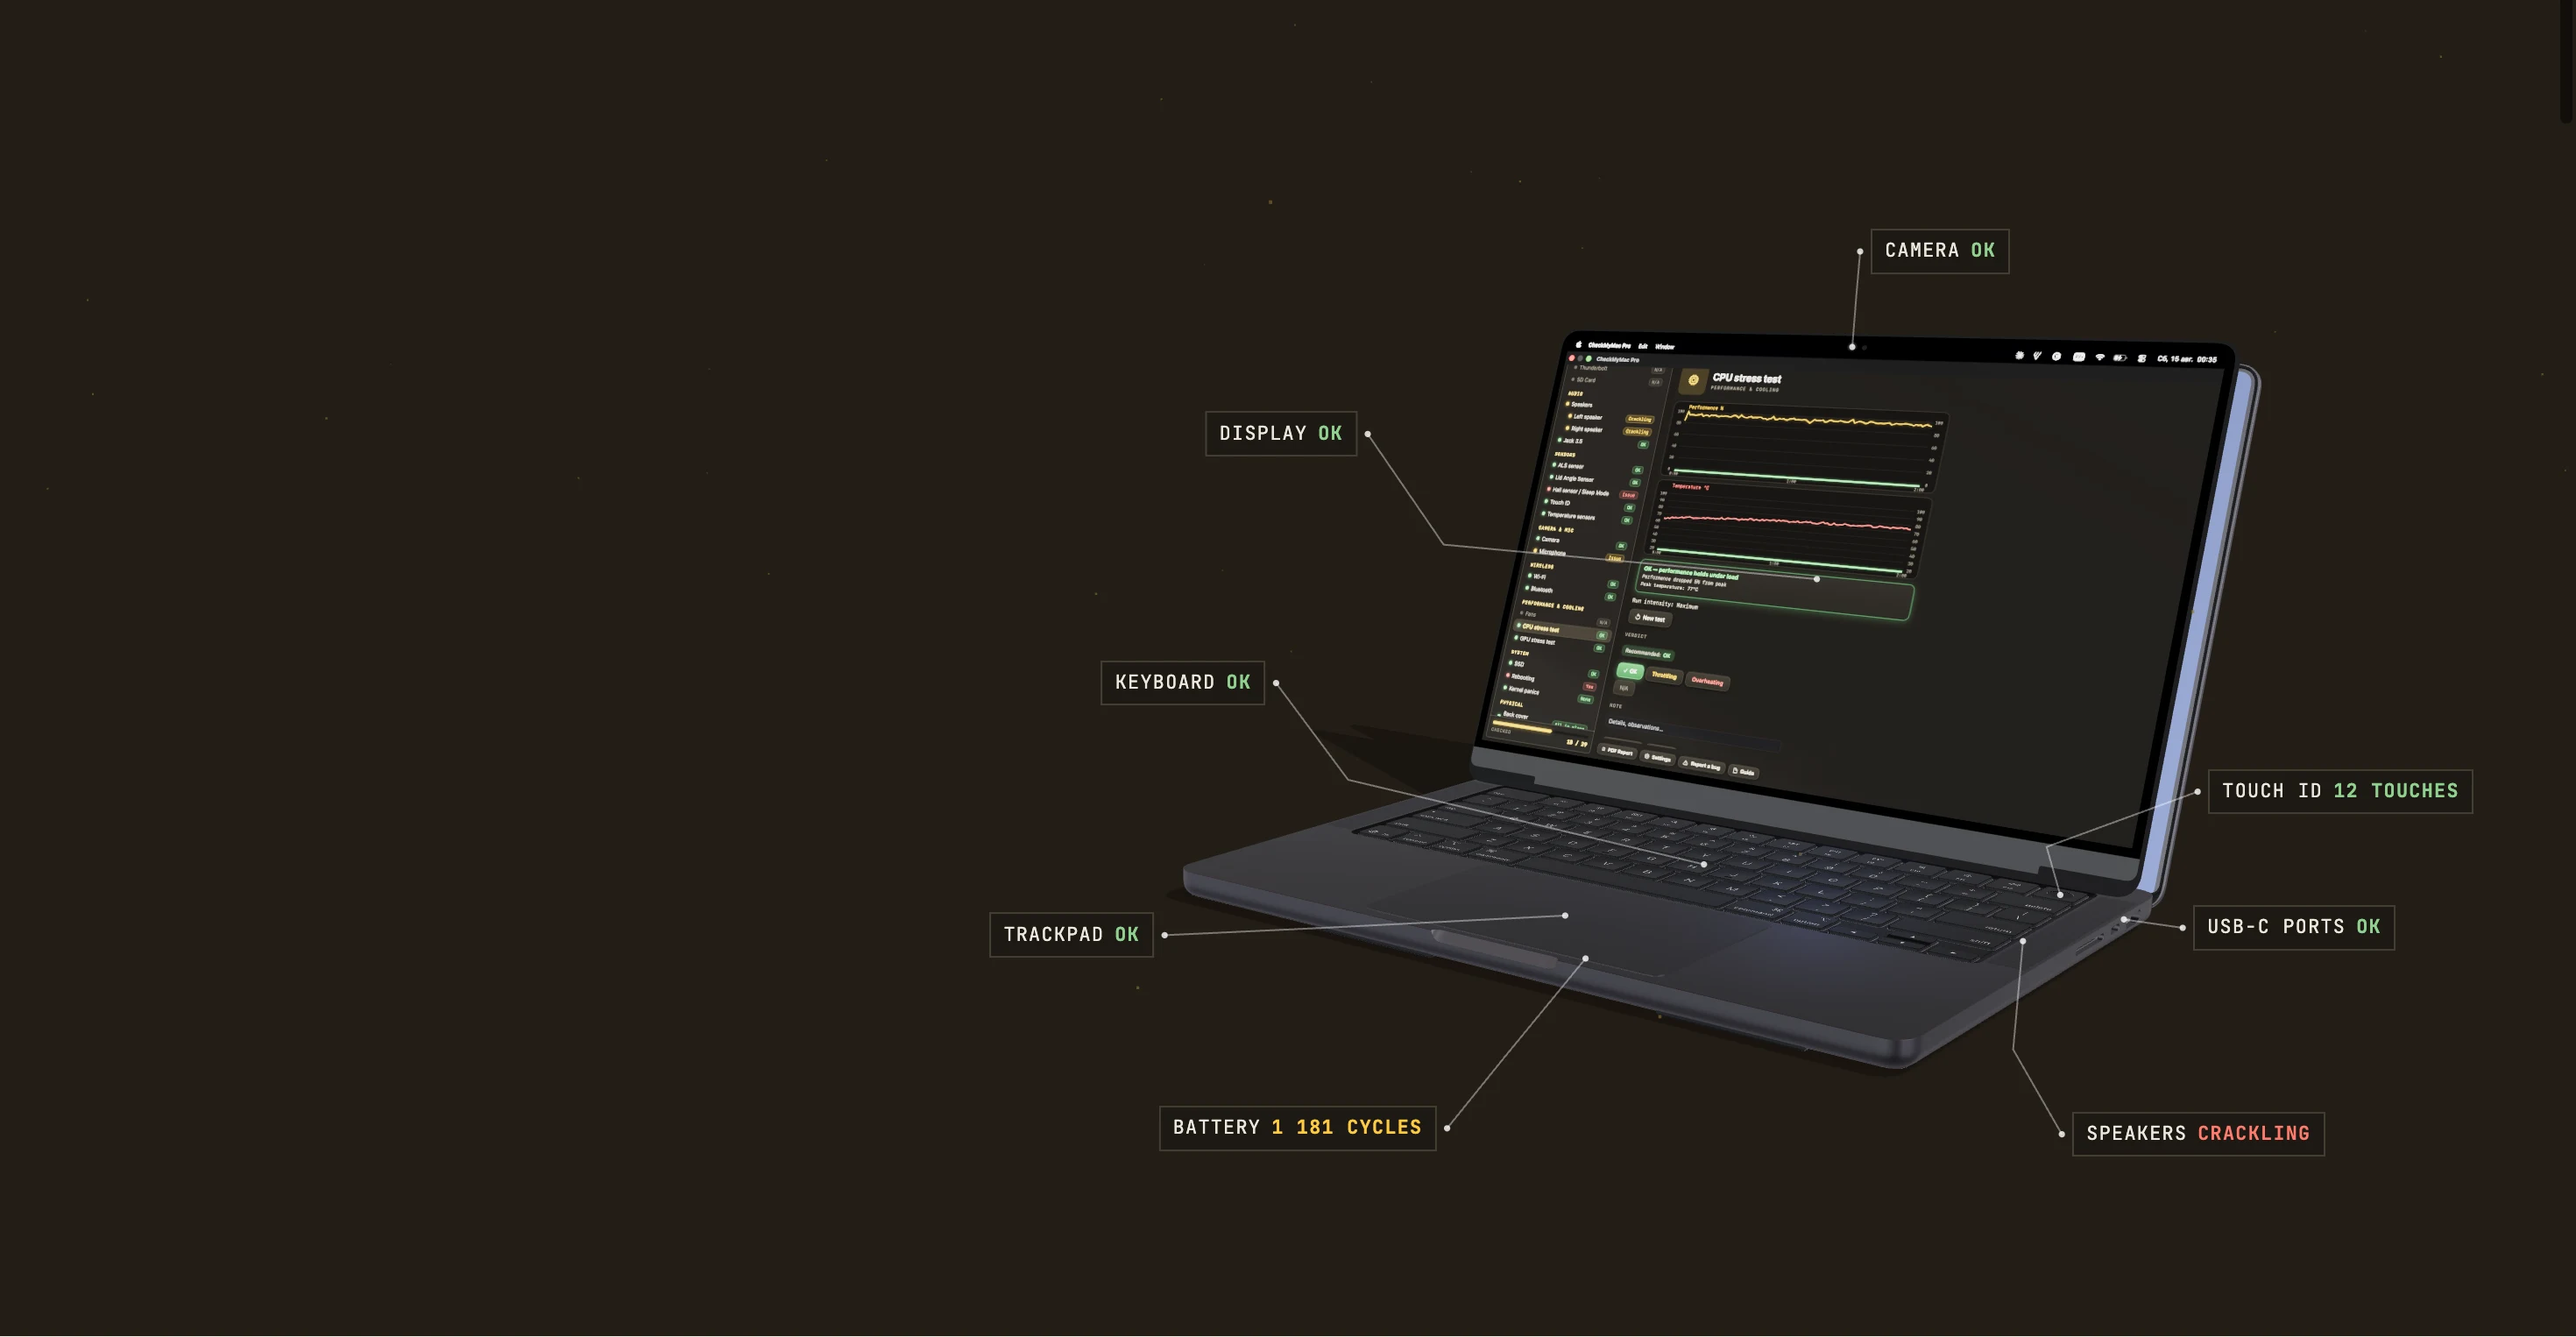
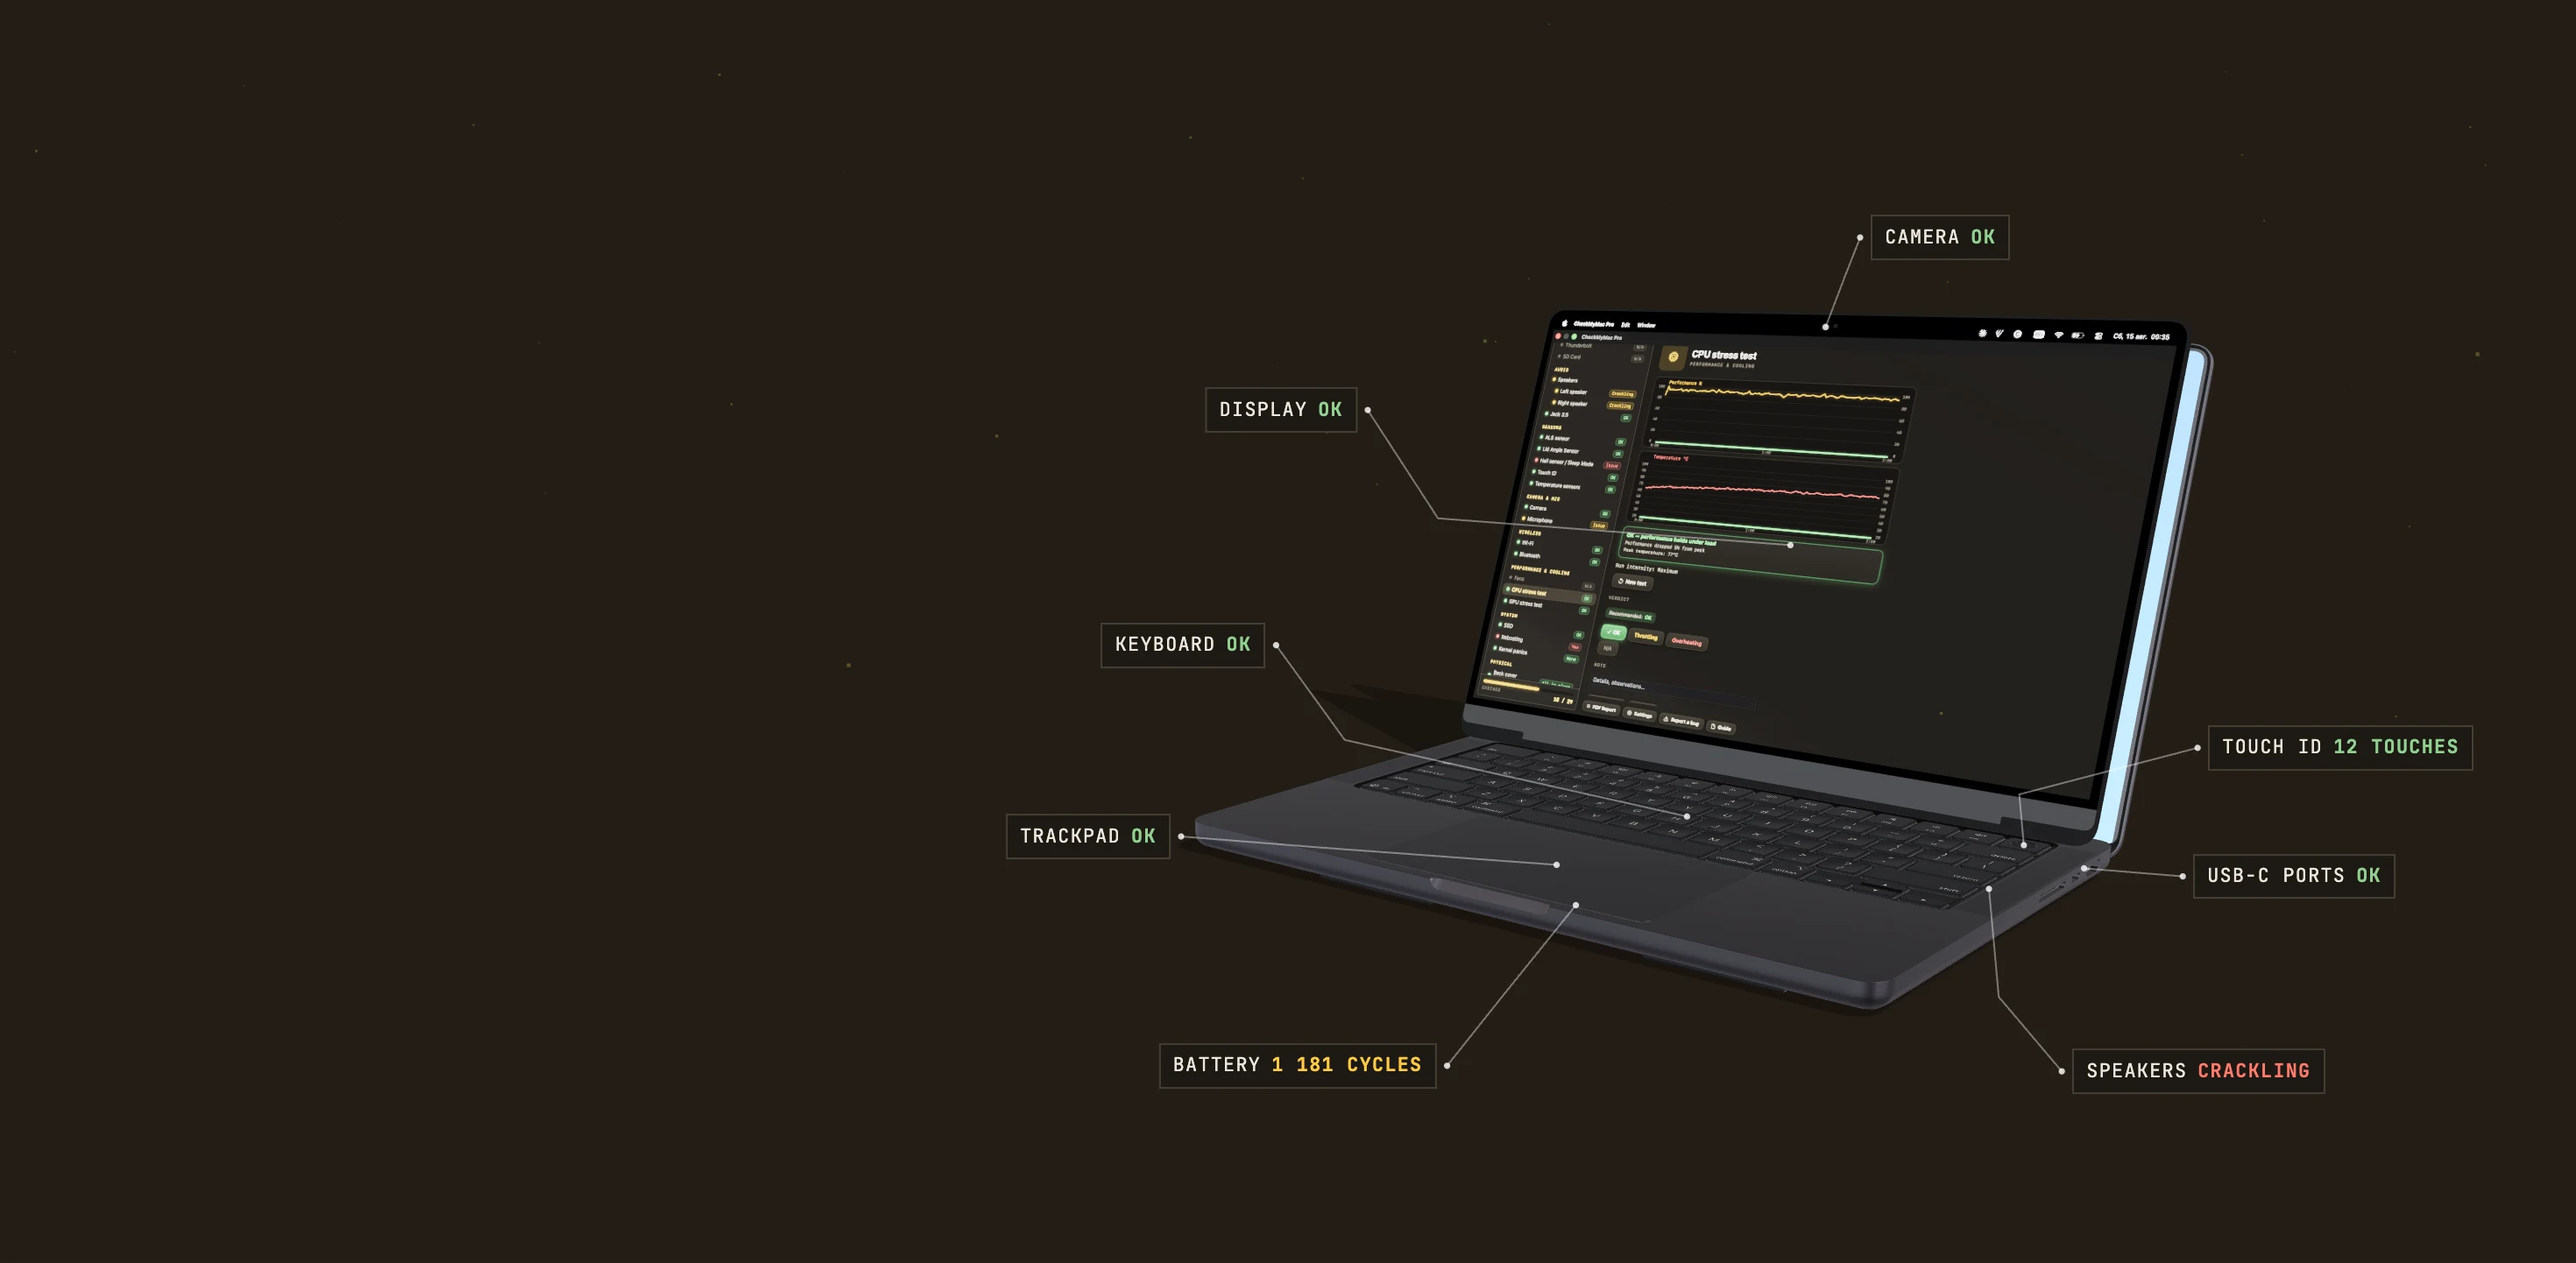
Раскладка бирок Юры + ограничитель по краю текста
Трекпад переставлен вручную под новую композицию. Плюс упор: бирки больше
не заезжают на текстовую колонку. Раскладка задана в долях героя, а текст
стоит фиксированной шириной по центру — чем шире окно, тем ближе они
сходились; на 1920 бирка трекпада уже налезала на ссылку с ценой.
Теперь зазор держится 17px на любой ширине, ручная расстановка сохранена.
Постер переснят под новые позиции.

diff --git a/js/hero.js b/js/hero.js
@@ -217,7 +217,8 @@ scene.add(dust);
 const root = new THREE.Group();
 scene.add(root);
 let rootBaseY = 0;
-let rootBaseX = null;  // база смещения по X; на широких экранах мак уводится правее текста
+let rootBaseX = null;   // база смещения по X; на широких экранах мак уводится правее текста
+let textGuard = null;   // правая граница текстовой колонки; бирки за неё не заходят
 
 // логические детали: suffix узла →描述. Заполняется после диагностики.
 const PART_DEFS = PART_DEFS_DATA;
@@ -525,7 +526,7 @@ loader.load(assets.model, (gltf) => {
       camera: { fx: 0.7262, fy: 0.1876, t: 0.446, off: 0.1 },
       keyboard: { fx: 0.4913, fy: 0.5109, t: 0.224, off: 34.8 },
       touchid: { fx: 0.8572, fy: 0.5922, t: 0.895, off: 26.6 },
-      trackpad: { fx: 0.4480, fy: 0.6997, t: 0.370, off: 0.3 },
+      trackpad: { fx: 0.4544, fy: 0.6625, t: 0.370, off: 0.3 },
       battery: { fx: 0.5577, fy: 0.8443, t: 0.420, off: -0.2 },
       body: { fx: 0.8514, fy: 0.6942 },
       speaker: { fx: 0.8045, fy: 0.8488, t: 0.471, off: -17.7 }
@@ -756,6 +757,14 @@ function resize() {
   if (rootBaseX !== null) root.position.x = rootBaseX + shift;
   // ширины бирок кэшируем: нужны каждый кадр, чтобы правые не ушли за экран
   for (const p of parts.values()) if (p.calloutEl) p.cw = p.calloutEl.offsetWidth;
+  // правая граница текстовой колонки — за неё бирки не заходят
+  const copyEl = document.querySelector('.hero-copy');
+  if (copyEl && w >= 1000) {
+    const cr = copyEl.getBoundingClientRect(), hr = hero.getBoundingClientRect();
+    textGuard = cr.right - hr.left + 28;
+  } else {
+    textGuard = null;   // на узких экранах текст лежит поверх мака — упор не нужен
+  }
 }
 addEventListener('resize', resize);
 resize();
@@ -801,6 +810,11 @@ function frame(ms) {
     let ty = H * (0.2 + (n > 1 ? p.slot * 0.55 / (n - 1) : 0));
     if (p.userPos) { bx = p.userPos.fx * W; ty = p.userPos.fy * H; }
     if (p.side === 'R') bx = Math.min(bx, W - 16 - (p.cw || 150));
+    // Бирки не заезжают на текстовую колонку: раскладка задана в долях героя,
+    // а текст стоит фиксированной шириной по центру страницы — чем шире окно,
+    // тем ближе они сходятся. Ручная расстановка Юры при этом сохраняется:
+    // упор срабатывает только там, где бирка реально дошла бы до текста.
+    if (textGuard !== null && bx < textGuard) bx = textGuard;
     p.calloutEl.style.left = bx + 'px';
     p.calloutEl.style.top = ty + 'px';
     const vis = appear;   // бирки висят всегда, не только при наведении

diff --git a/ru/index.html b/ru/index.html
@@ -36,7 +36,7 @@
 
   <section class="hero" aria-label="Разборка MacBook">
     <div id="hero3d"></div>
-    <img class="hero-poster" src="../assets/hero/poster.webp?v=5" srcset="../assets/hero/poster-mobile.webp?v=2 750w, ../assets/hero/poster.webp?v=5 2940w" sizes="100vw" alt="MacBook Pro разобран на детали, у каждой — вердикт диагностики" width="2940" height="1526" fetchpriority="high" decoding="async">
+    <img class="hero-poster" src="../assets/hero/poster.webp?v=7" srcset="../assets/hero/poster-mobile.webp?v=2 750w, ../assets/hero/poster.webp?v=7 2940w" sizes="100vw" alt="MacBook Pro разобран на детали, у каждой — вердикт диагностики" width="2940" height="1442" fetchpriority="high" decoding="async">
     <div class="hero-copy">
       <h1><span>Уверенность</span><br>в каждой детали.</h1>
       <p class="hero-stat"><b>30+</b>проверок железа — и у мака не остаётся секретов.</p>
@@ -250,7 +250,7 @@
 } }
 </script>
 <script type="module">
-import { initHero } from '../js/hero.js?v=5';
+import { initHero } from '../js/hero.js?v=7';
 initHero({
   container: document.getElementById('hero3d'),
   assets: {

diff --git a/index.html b/index.html
@@ -35,7 +35,7 @@
 
   <section class="hero" aria-label="MacBook teardown">
     <div id="hero3d"></div>
-    <img class="hero-poster" src="assets/hero/poster.webp?v=5" srcset="assets/hero/poster-mobile.webp?v=2 750w, assets/hero/poster.webp?v=5 2940w" sizes="100vw" alt="MacBook Pro opened into parts, every part labeled with a diagnostic verdict" width="2940" height="1526" fetchpriority="high" decoding="async">
+    <img class="hero-poster" src="assets/hero/poster.webp?v=7" srcset="assets/hero/poster-mobile.webp?v=2 750w, assets/hero/poster.webp?v=7 2940w" sizes="100vw" alt="MacBook Pro opened into parts, every part labeled with a diagnostic verdict" width="2940" height="1442" fetchpriority="high" decoding="async">
     <div class="hero-copy">
       <h1><span>Confidence</span><br>in every part.</h1>
       <p class="hero-stat"><b>30+</b>hardware checks — every hidden defect has nowhere to hide.</p>
@@ -249,7 +249,7 @@
 } }
 </script>
 <script type="module">
-import { initHero } from './js/hero.js?v=5';
+import { initHero } from './js/hero.js?v=7';
 initHero({
   container: document.getElementById('hero3d'),
   assets: {
